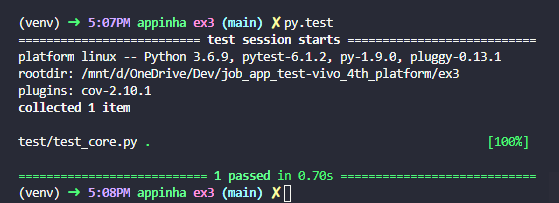
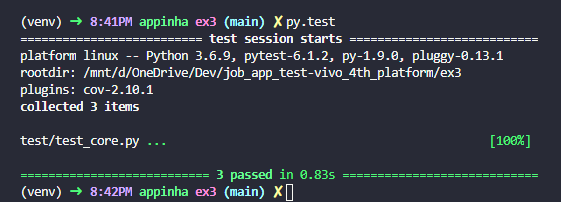
Ex.3: unittest - added tests for POST

diff --git a/ex3/test/test_core.py b/ex3/test/test_core.py
@@ -1,14 +1,28 @@
-from api.app import app
-import sys
 import unittest
 import requests
 import json
+from api.app import app
 
-class TestHomeView(unittest.TestCase):
+class TestAPI(unittest.TestCase):
 
 	def setUp(self):
-		app_test = app.test_client()
-		self.response = app_test.get('/')
+		self.app = app.test_client()
+		self.response = self.app.get('/')
+
+	def post(self):
+		url = 'http://127.0.0.1:5000/results/post'
+		with open('corrida.log', 'rb') as f:
+			response = requests.post(url, files={\
+				'file': ('corrida.log', f, 'text/csv', {'Expires': '0'})})
+		return response
+
+	def test_post_status_code(self):
+		response = self.post()
+		self.assertEqual(response.status_code, 200)
+
+	def test_post_content_type(self):
+		response = self.post()
+		self.assertEqual(response.headers['Content-Type'], 'application/json')
 
 	def test_content_type(self):
 		self.assertIn('html', self.response.content_type)

diff --git a/ex3/api/endpoints/race_res.py b/ex3/api/endpoints/race_res.py
@@ -27,7 +27,6 @@ class ShowResults(Resource):
 			This function gets race results from log file, then converts it to JSON.
 			The result dataframes are then rendered as HTML tables.
 		'''
-		headers = {'Content-Type': 'html'}
 		df_res, df_best_lap = get_race_res("corrida.log")
 		return make_response(render_template('view.html', \
 			tables=[df_res.to_html(classes='results'), \
